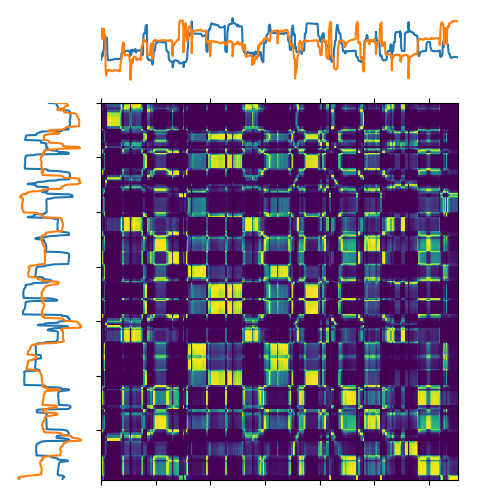
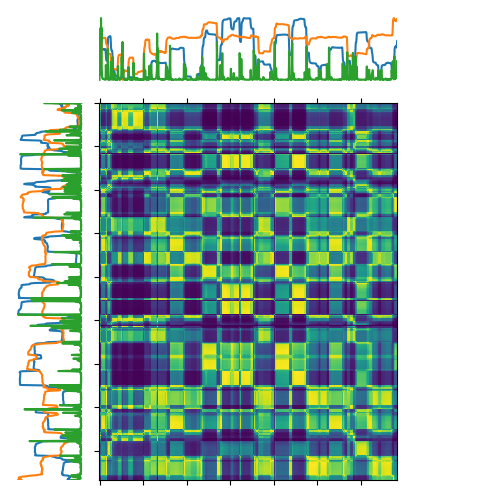
feat: data visualization feat: frequency sampling feat: min max scaling feat: data patient & scenario POV feat: use new data for motifs

diff --git a/app/app.py b/app/app.py
@@ -1,4 +1,5 @@
 import logging
+import pickle
 from pathlib import Path
 
 import numpy as np
@@ -17,15 +18,30 @@ GAMMA = 1
 STEP_SIZES = np.array([[1, 1], [2, 1], [1, 2]])
 
 if __name__ == '__main__':
-    data1 = np.load('./data/id1.npy', allow_pickle=True)
-    data2 = np.load('./data/als1.npy', allow_pickle=True)
+    # with open('./data/scenario_data.pkl', 'rb') as f:
+    # scenario_data = pickle.load(f)
+    with open('./data/patient_data_scaled.pkl', 'rb') as f:
+        patient_data = pickle.load(f)
+
+    data1 = [
+        df[['x', 'y', 'z']].to_numpy()
+        for df in patient_data['ALS01']
+        if df['scenario'].iloc[0] == 'scenario1' and df['time'].iloc[0] == 'time1'
+    ][0]
+
+    data2 = [
+        df[['x', 'y', 'z']].to_numpy()
+        for df in patient_data['ALS02']
+        if df['scenario'].iloc[0] == 'scenario1' and df['time'].iloc[0] == 'time1'
+    ][0]
+
     if len(data1) > len(data2):
         ts1, ts2 = data2, data1
     else:
         ts1, ts2 = data1, data2
     sample_frequency = 30
-    L_MIN = int(5 * sample_frequency)
-    L_MAX = int(25 * sample_frequency)
+    L_MIN = int(3 * sample_frequency)
+    L_MAX = int(10 * sample_frequency)
 
     # calculate the similarity matrix in both directions
     sm_column: np.ndarray = sm.calculate_similarity_matrixV1(ts2, ts1, GAMMA)

diff --git a/src/locomotif-loconsensus/locomotif/loconsensus/visualize.py b/src/locomotif-loconsensus/locomotif/loconsensus/visualize.py
@@ -11,7 +11,7 @@ def plot_motif_sets(ts1, ts2, column_motif_sets, row_motif_sets):
             plot_columns = len(motif_set)
 
     plot_rows = len(column_motif_sets) + len(row_motif_sets)
-    fig, axs = plt.subplots(plot_rows, plot_columns + 1, sharey=True)
+    fig, axs = plt.subplots(plot_rows, plot_columns + 1, sharey=True, squeeze=False)
 
     for i, motif_set in enumerate(column_motif_sets + row_motif_sets, start=0):
         (representative_start, representative_end), motifs = motif_set

diff --git a/src/locomotif-loconsensus/locomotif/loconsensus/path_finder.py b/src/locomotif-loconsensus/locomotif/loconsensus/path_finder.py
@@ -2,7 +2,7 @@ import numpy as np
 from locomotif.loconsensus import path as path_class
 
 # TODO: what value for V_WIDTH?
-V_WIDTH = 5
+V_WIDTH = 3
 
 
 def find_pathsV1(
